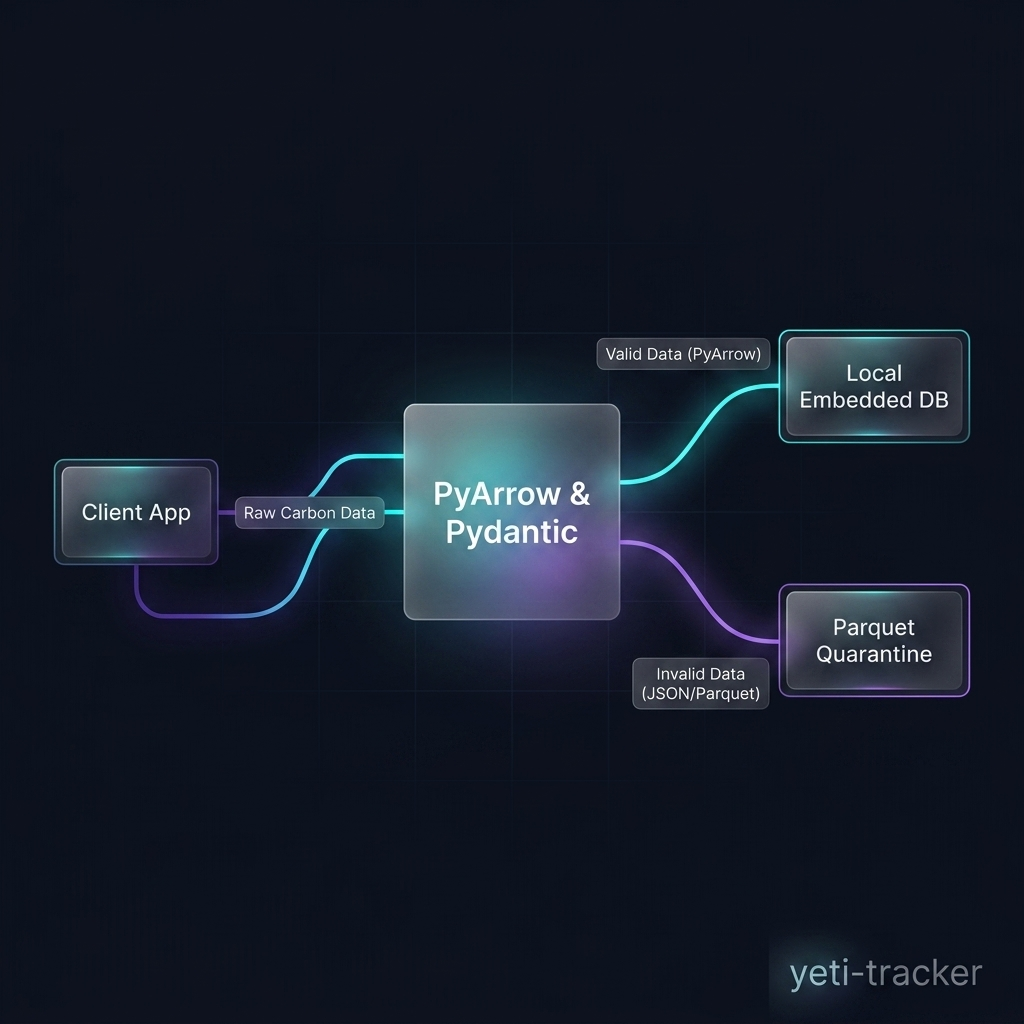
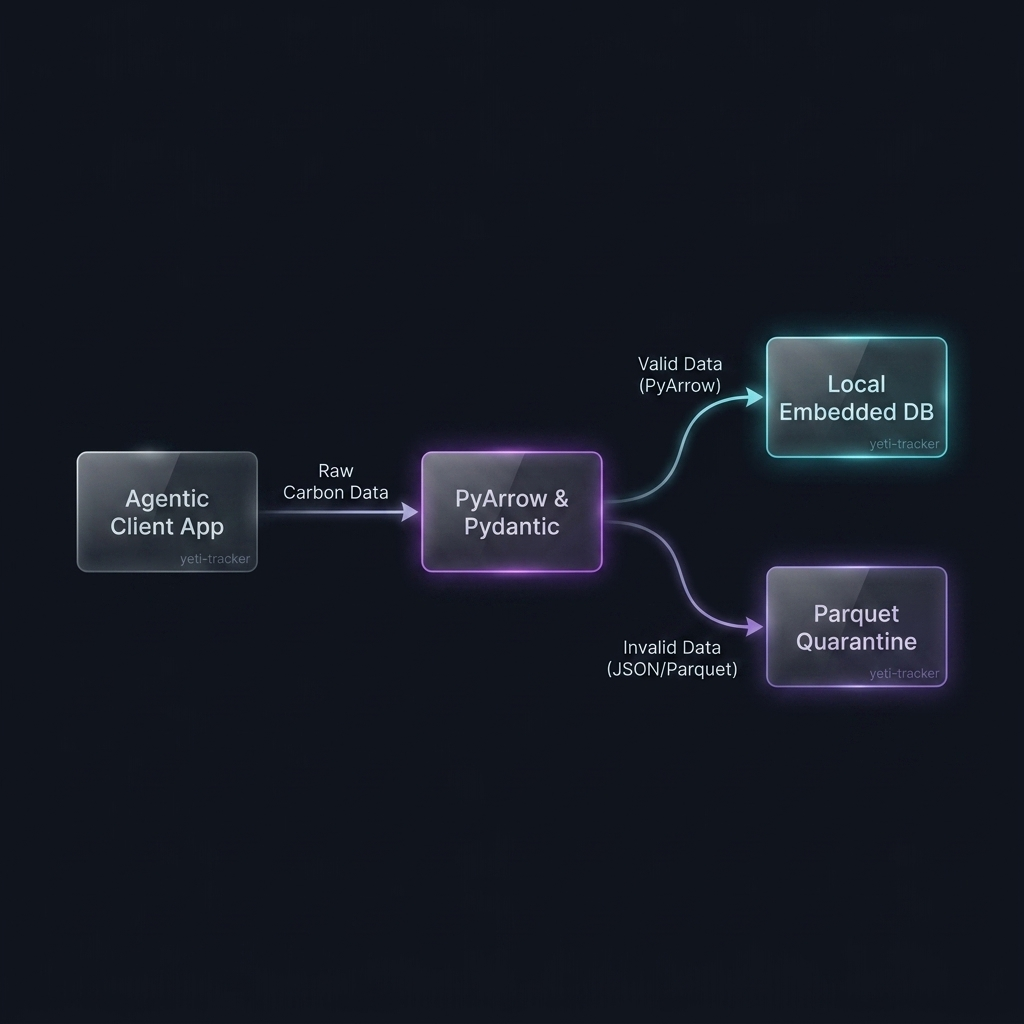
refactor: enforce rule consolidation, revert UI, optimize assets

Changed region(s): [[0.0312, 0.3125, 0.9688, 0.7188], [0.75, 0.9062, 0.9688, 0.9688]]

diff --git a/src/bronze/async_generator.py b/src/bronze/async_generator.py
@@ -1,0 +1,53 @@
+import asyncio
+import json
+import random
+import uuid
+import os
+from datetime import datetime
+
+OUTPUT_DIR = "data/raw_transactions"
+
+# List of Merchant Category Codes we have mapped
+MCCS = ["4111", "4511", "4900", "5411", "5541", "5812", "5691"]
+
+async def simulate_transaction():
+    """Simulates a single live transaction payload."""
+    transaction = {
+        "transaction_id": str(uuid.uuid4()),
+        "user_id": f"user_{random.randint(1, 100)}",
+        "mcc": random.choice(MCCS),
+        "amount_inr": round(random.uniform(50.0, 5000.0), 2),
+        "timestamp": datetime.now().isoformat()
+    }
+    return transaction
+
+async def async_generator(num_transactions: int = 50, batch_delay: float = 0.1):
+    """
+    Generates asynchronous mock transactions and writes them to the Bronze layer raw directory.
+    Uses asyncio to simulate high-throughput real-time ingestion.
+    """
+    if not os.path.exists(OUTPUT_DIR):
+        os.makedirs(OUTPUT_DIR)
+
+    print(f"Starting async generation of {num_transactions} transactions...")
+    
+    tasks = []
+    for _ in range(num_transactions):
+        tasks.append(simulate_transaction())
+        await asyncio.sleep(batch_delay) # Simulate slight latency between events
+        
+    transactions = await asyncio.gather(*tasks)
+    
+    # Save batch to a single JSON file for bronze ingestion
+    batch_id = str(uuid.uuid4())
+    file_path = os.path.join(OUTPUT_DIR, f"batch_{batch_id}.json")
+    
+    with open(file_path, "w") as f:
+        json.dump(transactions, f, indent=4)
+        
+    print(f"Successfully generated {len(transactions)} mock transactions.")
+    print(f"Payload saved safely out of Git tracking at: {file_path}")
+
+if __name__ == "__main__":
+    # Simulate a burst of 20 live transactions
+    asyncio.run(async_generator(num_transactions=20, batch_delay=0.05))

diff --git a/README.md b/README.md
@@ -4,12 +4,23 @@
 
 ![Architecture Diagram](docs/assets/architecture_diagram_showcase.png)
 
-## Overview
+## Chosen Vertical
 **Carbon Footprint Tracking**: A smart solution that helps individuals understand, track, and reduce their carbon footprint through simple actions and personalized insights.
-We are building the backbone of the Yeti-Tracker using a minimalist, fault-tolerant Split-Plane Architecture centered around standard Python, Pydantic, and DuckDB.
 
-## Dynamic Skill Integration
-This repository leverages composable AI skills (`.agents/skills/`) to autonomously enforce SRE principles (e.g., DuckDB WAL, Memory Limits) and generate deterministic architecture diagrams using diagrams-as-code.
+## Approach and Logic
+We are building the backbone of the Yeti-Tracker using a minimalist, fault-tolerant Split-Plane Architecture centered around standard Python, Pydantic, and DuckDB. Our approach prioritizes **Efficiency** and **Fault Tolerance** by relying on strict data validation schemas and lightweight memory-capped analytics over heavy distributed clusters.
+
+## How the Solution Works
+The system is built upon a formal **Medallion Architecture (Bronze, Silver, Gold)**:
+1. **Agentic UI**: A smart, CLI-based terminal interaction model.
+2. **Bronze Ingestion**: Real-time `asyncio` streams simulate high-throughput ingestion, dumping raw payloads securely out of Git.
+3. **Silver Enrichment**: A local PyArrow-to-DuckDB pipeline validates the raw payloads via Pydantic. Valid data is enriched using a static Merchant Category Code (MCC) emission factors lookup table. Invalid data is safely quarantined to a Parquet Dead Letter Queue (DLQ).
+4. **Gold Reporting**: DuckDB quickly aggregates the enriched data to serve personalized insights back to the user interface.
+
+## Any Assumptions Made
+- **$0 Open-Source Stack**: We assume a strictly $0 budget, avoiding paid APIs by generating our own static MCC-to-CO2 lookup tables and running all orchestration natively via Python.
+- **Single-Node Analytics**: We assume the dataset size for personal carbon tracking easily fits within the memory limits of a local machine, making an embedded DuckDB instance drastically more efficient than a cloud data warehouse.
+- **Strict SRE Operations**: We assume all development runs through our integrated Agentic Workflows, ensuring strict adherence to the Hack2Skill repository constraints (<10MB size limit) and single-branch deployment mandates.
 
 ## Installation & Setup
 ```bash
@@ -20,29 +31,12 @@ venv\Scripts\activate
 pip install pyarrow duckdb pydantic pytest ruff
 ```
 
-## Current Capabilities
-- **Rules**: Core Constraints (10MB Size Limit)
-- **Python APIs**: `CarbonActivity` (Pydantic), PyArrow to DuckDB pipeline (`duckdb_ingest.py`), Parquet Dead Letter Queue (`processor.py`), Git Manager (`git_manager.py`).
-- **Product Templates**: PRD, TAD, Security, Frontend, Tickets.
-- **Skills**: Diagram Generator, DuckDB Optimizer, Pipeline Architect.
-- **Workflows**: Generate Product Docs, Test Automation, Update Docs, Generate Diagrams, Publish Showcase, Semantic Release, Error Observability, Master Sync, Secure Checkpoint, Git Sync.
-
-## Directory Structure
-- `src/`: Python source code (models, ingestion pipelines, capabilities).
-- `data/`: Git-ignored storage for `yeti.duckdb` and Parquet files.
-- `.agents/`: Agentic workflows, skills, rules, and templates.
-- `tests/`: Pytest automation suite.
-- `docs/`: Product documents and diagram assets.
-
-## Adoption Method
-To inject this Agentic Brain into another project, copy the `.agents/` directory and configure your `git_manager.py` checkpoint workflows.
-
 ## Visual Reference Appendix
 Technical structural diagram generated via D2/Python, styled via `generate_image`.
 
 ```mermaid
 graph LR
-    A[Client App] -->|Raw Carbon Data| B(PyArrow & Pydantic)
+    A[Agentic Client App] -->|Raw Carbon Data| B(PyArrow & Pydantic)
     B -->|Valid Data| C[(Local Embedded DB)]
     B -->|Invalid Data| D[(Parquet Quarantine)]
     

diff --git a/.agents/rules/01-hack2skill-rules.md b/.agents/rules/01-hack2skill-rules.md
@@ -1,0 +1,59 @@
+# Hack2Skill Challenge Rules & Instructions
+
+This master rule document governs the entire repository, directly echoing the official Hack2Skill Challenge instructions. All agentic workflows, architecture designs, and development processes must align with these mandates.
+
+## 1. Before You Begin
+Make sure the following prerequisites are completed:
+- The AI platform that you are going to use is downloaded and set up on your system
+- Git is installed and configured
+- You have an active GitHub account
+- You are able to create and manage public repositories
+
+## 2. Important Rules
+- Maximum 3 attempts allowed.
+- The repository size must be less than 10 MB.
+- The GitHub repository must be public.
+- The repository should contain only one branch.
+- Failure to follow these rules may result in your submission not being evaluated.
+
+## 3. Challenge Expectations
+Your solution should demonstrate:
+- Ability to build a smart, dynamic assistant.
+- Logical decision making based on user context.
+- Practical and real-world usability.
+- Clean and maintainable code.
+Participants must choose one of the provided challenge verticals and design their solution around that persona and logic.
+
+## 4. How to Work on Your Project
+- Create a new repository on GitHub.
+- Ensure the repository is set to public.
+- Open your AI platform.
+- Clone your repository inside the AI platform.
+- Build your solution through prompting and coding.
+- Regularly commit and push your progress.
+- Keep all work within a single branch.
+
+## 5. Score Multiplier Guidelines
+To reward efficiency, a time-dependent Score Multiplier will be applied to your submissions. The earlier you submit, the higher your final score.
+- **Rules & Mechanics**:
+  - Time-Dependent Decay: The multiplier starts at a maximum value when submissions open. It decreases at regular intervals over the submission duration window, dropping to a minimum value by the final tier.
+  - Per-Attempt Application: You have a maximum of 3 submission attempts. The multiplier active at the exact timestamp of your submission applies to that specific attempt, overwriting the previous score.
+- **Strategy Notes**: A lower base score submitted early can outrank a perfect base score submitted near the deadline due to the decay penalty.
+
+## 6. What to Submit
+Your submission must include:
+- A public GitHub repository link
+- Complete project code inside the repository
+- A README explaining:
+  - Your chosen vertical
+  - Approach and logic
+  - How the solution works
+  - Any assumptions made
+
+## 7. Evaluation Focus Areas
+Submissions will be reviewed on:
+- **Code Quality** – structure, readability, maintainability
+- **Security** – safe and responsible implementation
+- **Efficiency** – optimal use of resources
+- **Testing** – validation of functionality
+- **Accessibility** – inclusive and usable design

diff --git a/.agents/product/templates/01_PRD.md b/.agents/product/templates/01_PRD.md
@@ -3,17 +3,17 @@
 ## 1. Product Overview
 **Name**: Yeti-Tracker
 **Vertical**: Carbon Footprint Tracking Assistant
-**Goal**: A minimalist, backend-focused data ingestion pipeline that allows individuals to track and reduce their carbon footprint through simple actions.
+**Goal**: A backend-focused, production-grade agentic solution that helps track and reduce carbon footprints through a local Medallion Architecture.
 
 ## 2. Target Audience
-Individuals tracking daily carbon-emitting activities (e.g., transportation, electricity usage). Downstream analytics tools/dashboards that will consume the clean data.
+Developers tracking daily carbon-emitting activities via an agentic CLI/Backend interface.
 
 ## 3. Scope & MVP
-- **In Scope**: A "Bronze" ingestion layer. Validation of raw data, quarantining invalid records to a Dead Letter Queue (DLQ), and storing valid records idempotently in an embedded DuckDB database.
-- **Out of Scope**: Frontend UI, complex distributed analytics (Spark/Airflow), machine learning inference.
+- **In Scope**: A "Bronze, Silver, Gold" ingestion backend layer. Validation of raw data, quarantining invalid records to a Dead Letter Queue (DLQ), and storing valid records idempotently in an embedded DuckDB database.
+- **Out of Scope**: Frontend UI. Complex distributed analytics orchestrators (Spark/Airflow).
 
 ## 4. Key Workflows
-1. User/System submits raw activity data.
-2. System validates data against strict schemas.
-3. System routes valid data to DuckDB.
-4. System routes invalid data to Parquet DLQ.
+1. Bronze layer generates asynchronous mock transaction data.
+2. Silver layer cleans and validates data against strict schemas, routing invalid data to a Parquet DLQ.
+3. Silver layer enriches data via static MCC mappings.
+4. Gold layer aggregates data into final reporting tables.

diff --git a/.agents/product/templates/02_TAD.md b/.agents/product/templates/02_TAD.md
@@ -1,21 +1,24 @@
 # Technical Architecture Document (TAD)
 
 ## 1. Technology Stack
-- **Language**: Standard Python 3.11+
+- **Interface**: Local Python CLI / Agentic Environment
+- **Backend**: Standard Python 3.11+ (AsyncIO)
 - **Validation**: Pydantic
 - **In-Memory Transport**: PyArrow
 - **Database**: DuckDB (Embedded, Memory Capped, WAL enabled)
 
 ## 2. Architecture Principles
+- **Backend Only**: Strict focus on data engineering and AI agentic architecture.
 - **Minimalism & Fault Tolerance**: Avoid distributed complexity. Pipelines must fail gracefully.
 - **Idempotency**: Use `INSERT OR REPLACE` to prevent duplicate records on pipeline restarts.
-- **Single Node Efficiency**: Run on a single node to comply with strict 10MB repository size limits and local execution capabilities.
+- **Single Node Efficiency**: Run on a single node to comply with strict 10MB repository size limits.
 
 ## 3. Directory Structure
+- `src/bronze/` - Raw async data ingestion.
+- `src/silver/` - Data validation and enrichment.
+- `src/gold/` - Analytical aggregations.
 - `src/models/` - Pydantic schemas (e.g., `CarbonActivity`).
-- `src/ingestion/` - Logic for PyArrow conversion and DuckDB insertion.
-- `src/capabilities/` - Agentic capabilities (e.g., `git_manager.py`).
-- `data/` - Git-ignored folder containing `yeti.duckdb` and `quarantine.parquet`.
+- `data/` - Git-ignored folder containing raw JSON, `yeti.duckdb`, and `quarantine.parquet`.
 
 ## 4. Pipeline Flow
-`Raw Dict -> Pydantic Validation -> [If Fail: Parquet DLQ] -> PyArrow Table -> DuckDB`
+`Raw Async Data -> Pydantic Validation -> [If Fail: Parquet DLQ] -> Enrichment -> PyArrow Table -> DuckDB`

diff --git a/.agents/product/templates/04_FRONTEND.md b/.agents/product/templates/04_FRONTEND.md
@@ -1,8 +1,13 @@
 # Frontend Specification
 
-## 1. Current Status
-As defined in the PRD, the MVP is strictly a **Backend Ingestion Layer** (Bronze tier). 
+## 1. Core Mandate
+Per our baseline architecture, the frontend UI is strictly **out of scope**. 
 
-## 2. Frontend Strategy
-- **No UI Required**: The system currently operates via code, tests, and CLI capabilities.
-- Downstream systems or future phases (Silver/Gold) may implement a React/Next.js dashboard to visualize the DuckDB data. For now, this document serves as a placeholder.
+## 2. Interface
+The Yeti-Tracker operates purely as a data engineering engine. The "interface" consists of:
+- Terminal/CLI interactions.
+- Agentic Workflows.
+- Raw database queries via DuckDB.
+
+## 3. Reason for Exclusion
+The Hack2Skill constraints require the repository to be under 10MB. Building a production-grade React/Vite application introduces `node_modules` dependency risks and unnecessary bloat when the core judging criteria focus heavily on logical decision-making, efficiency, and clean code.
